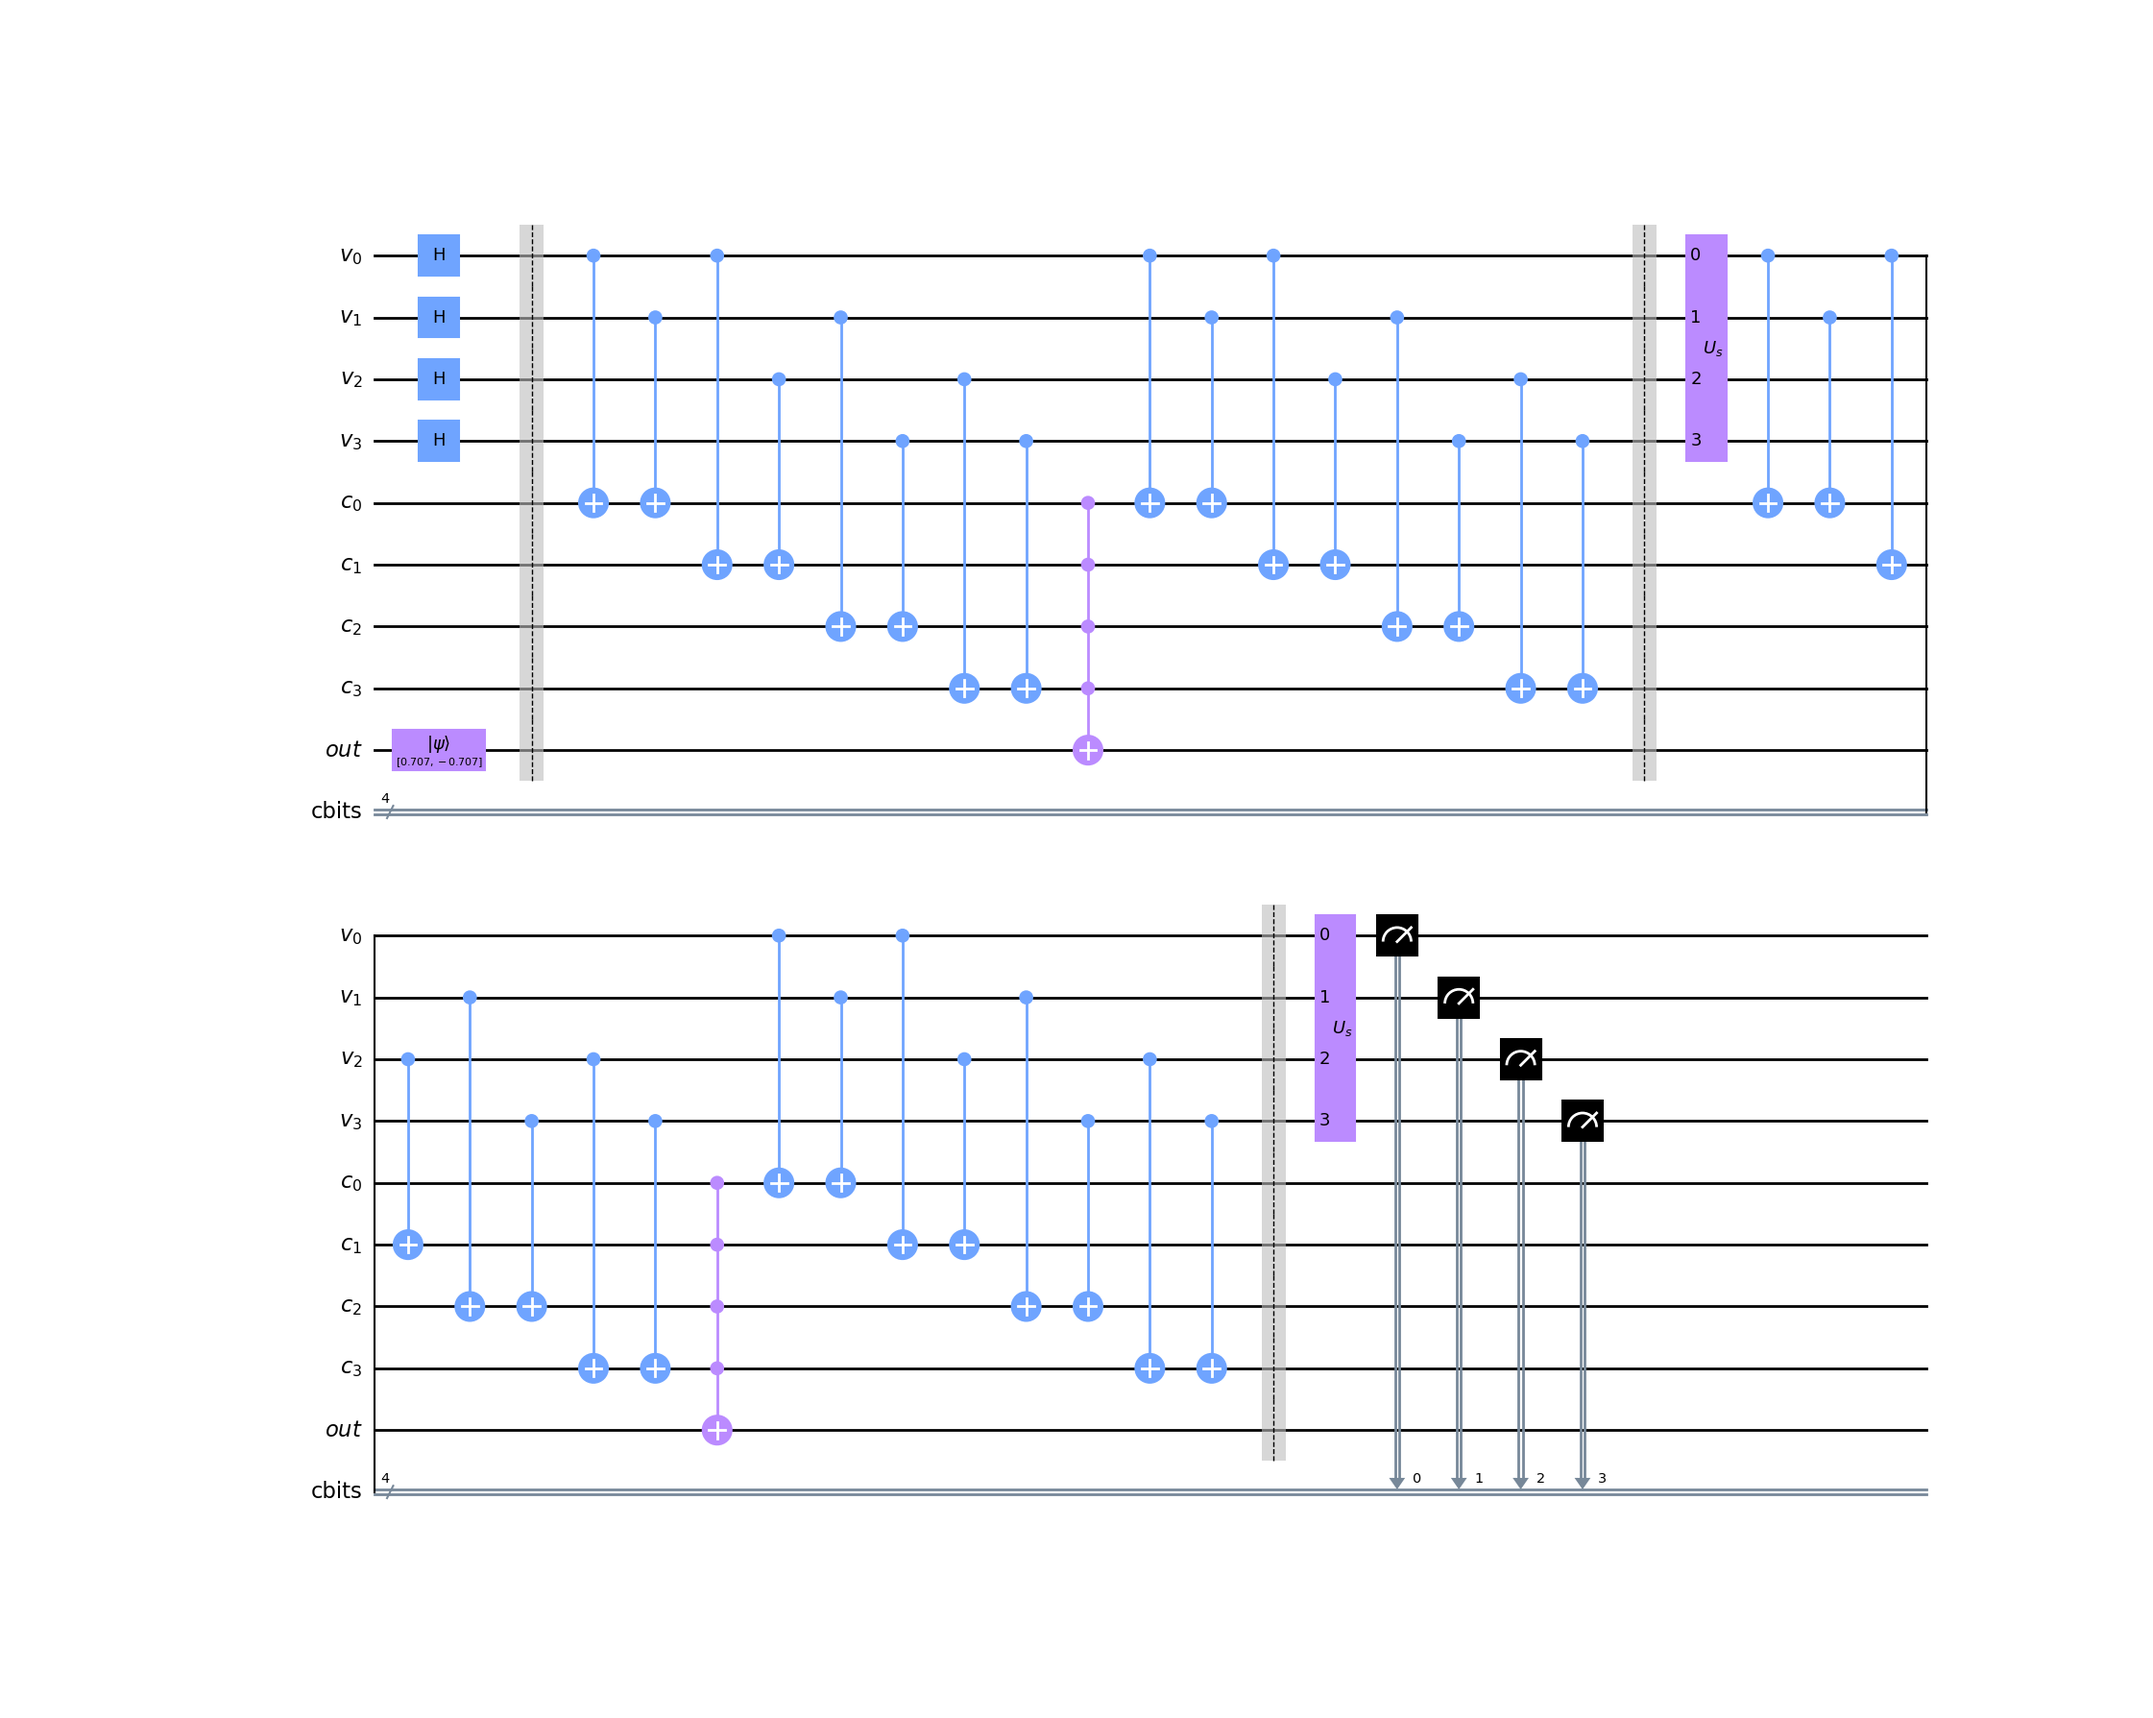
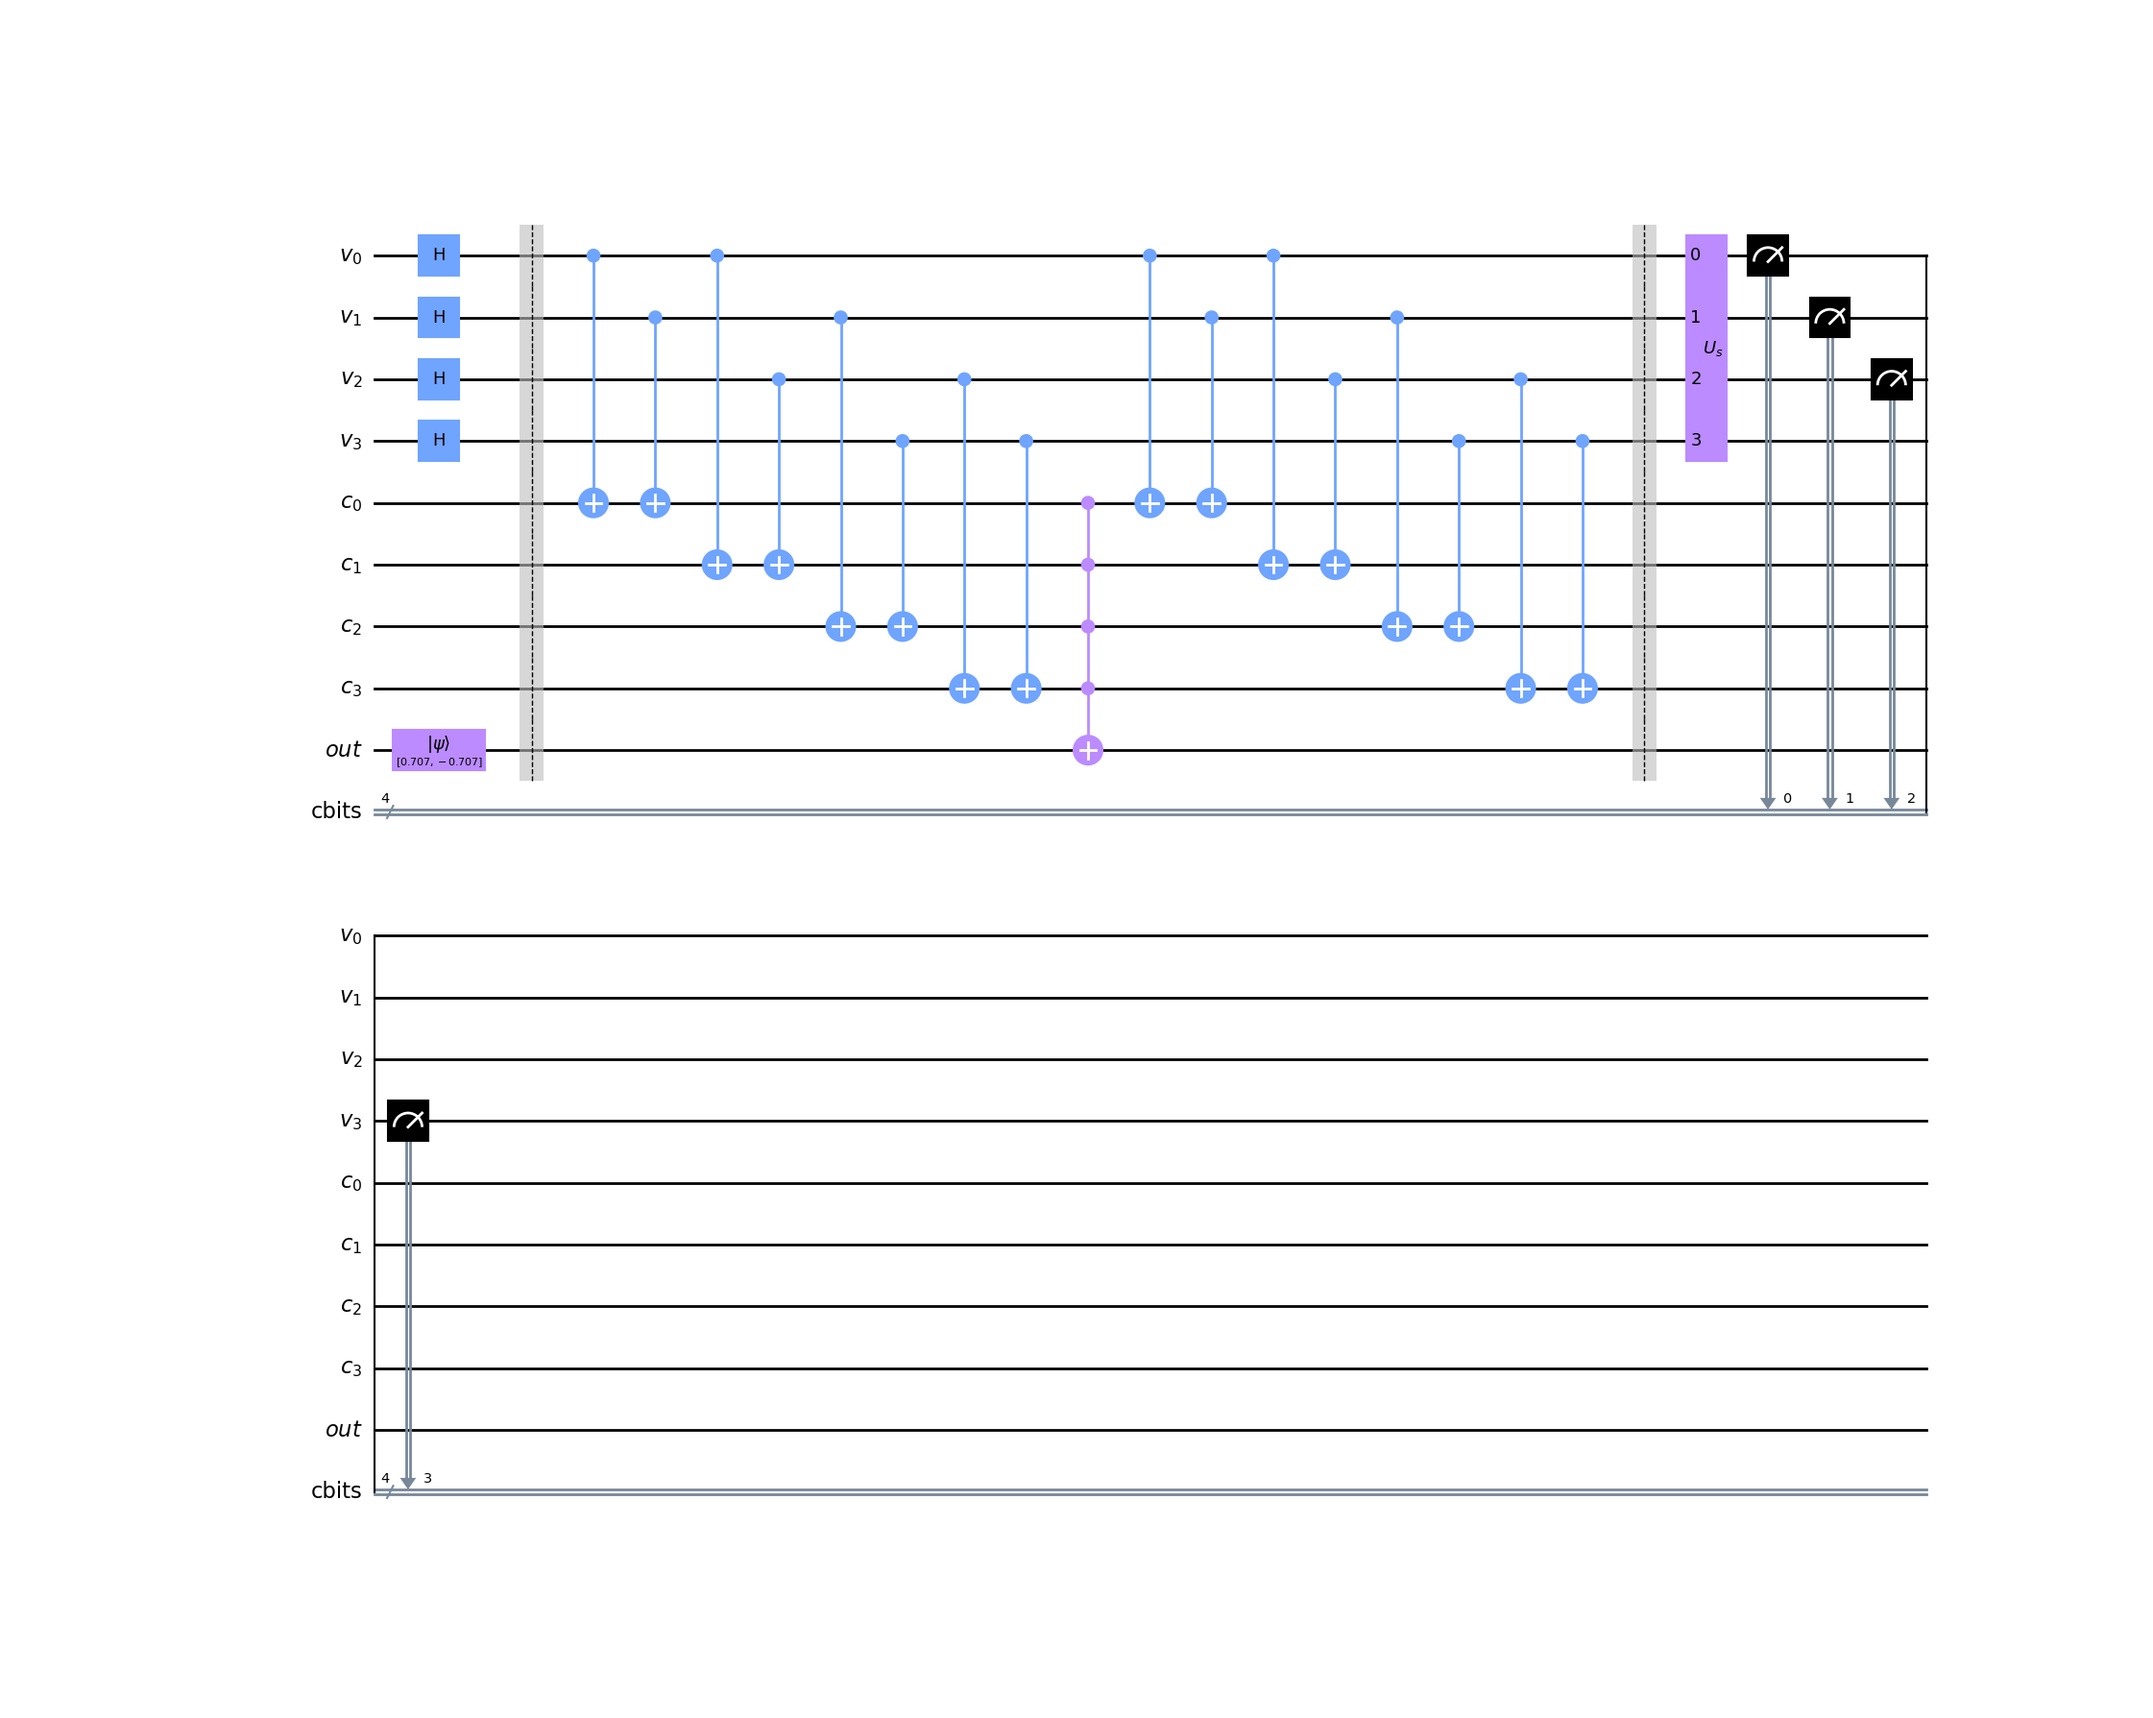
IonQ

diff --git a/sudoku.py b/sudoku.py
@@ -1,7 +1,9 @@
 import matplotlib.pyplot as plt
 import numpy as np
 
-from qiskit import IBMQ, Aer, QuantumCircuit, ClassicalRegister, QuantumRegister, execute
+from qiskit import Aer, QuantumCircuit, ClassicalRegister, QuantumRegister, execute
+from qiskit_ionq import IonQProvider
+provider = IonQProvider()
 
 from qiskit.visualization import plot_histogram
 
@@ -55,15 +57,13 @@ sudoku_oracle(qc, clause_list, var_qubits, clause_qubits, cbits)
 qc.barrier()
 qc.append(diffuser(4), [0,1,2,3])
 
-sudoku_oracle(qc, clause_list, var_qubits, clause_qubits, cbits)
-qc.barrier()
-qc.append(diffuser(4), [0,1,2,3])
+
 
 qc.measure(var_qubits, cbits)
 qc.draw(output="mpl")
 plt.savefig("./circuit-diagram.png")
 
 qasm_simulator = Aer.get_backend('qasm_simulator')
-job = execute(qc, backend=qasm_simulator, shots=100024)
-plot_histogram(job.result().get_counts(), color='midnightblue', title="New Histogram")
+job = execute(qc, backend=qasm_simulator, shots=2048)
+plot_histogram(job.result().get_counts(), color='midnightblue', title="sudoku")
 plt.savefig("./results-histogram.png")
